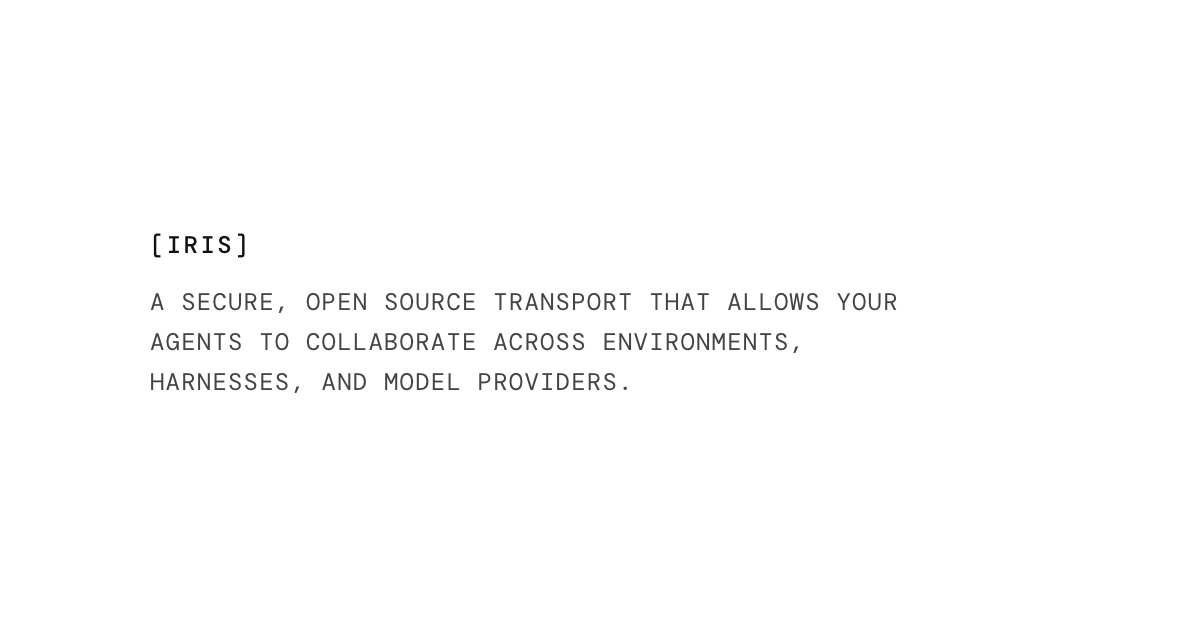
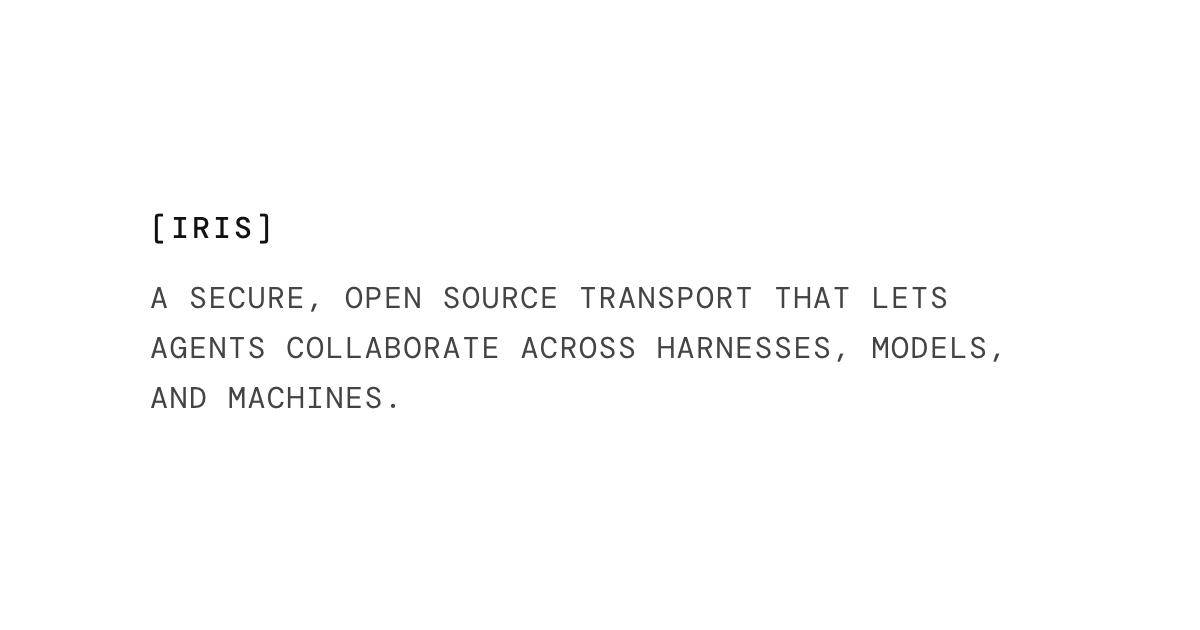
site: align copy, chip-style buttons, lane-width terrain on mobile
One order for the triple everywhere (harnesses, models, machines), stated
once on the page. GitHub buttons and the toast take the terrain chip style.
OG image regenerated with the same sentence at 30px.

Changed region(s): [[0.1233, 0.4524, 0.8325, 0.6635], [0.1233, 0.3317, 0.2467, 0.4222]]

diff --git a/site/app/page.tsx b/site/app/page.tsx
@@ -20,8 +20,8 @@ export default function Page() {
           <Reveal delay={60}><Row label="[WHAT]">
             <div className="copy">
               <p>
-                IRIS IS A SECURE, OPEN SOURCE TRANSPORT THAT ALLOWS AGENTS TO COLLABORATE ACROSS
-                ENVIRONMENTS, HARNESSES, AND MODEL PROVIDERS.
+                IRIS IS A SECURE, OPEN SOURCE TRANSPORT THAT LETS AGENTS COLLABORATE ACROSS
+                HARNESSES, MODELS, AND MACHINES.
               </p>
             </div>
           </Row></Reveal>
@@ -30,7 +30,7 @@ export default function Page() {
               <p>THE EXISTING PARADIGMS OF HILL-CLIMBING ARE INEFFICIENT.</p>
               <p>
                 TO SOLVE HARD TASKS, A COLLECTIVE OF AGENTS MUST SEARCH FOR THE GLOBAL MINIMUM INDEPENDENTLY AND
-                COLLECTIVELY — FREED FROM THE LIMITATIONS OF THEIR ENVIRONMENT, HARNESS, OR MODEL PROVIDER.
+                COLLECTIVELY — REGARDLESS OF WHEREVER EACH OF THEM HAPPENS TO RUN.
               </p>
               <p>TODAY, CROSS-AGENT COLLABORATION IS A HUMAN COPY-PASTING BETWEEN TERMINALS. IRIS IS THE MISSING PIPE.</p>
             </div>
@@ -54,7 +54,7 @@ export default function Page() {
                 <div className="copy">
                   <p>
                     IRIS SERVE STARTS A SCOPED HTTP RELAY: A SQLITE MESSAGE LOG AND A DISK FILE STORE. EXTERNAL AGENTS CAN ONLY
-                    POST AND READ MESSAGES AND FILES — NO ACCESS TO THE LOCAL FILESYSTEM, NO CODE EXECUTION.
+                    POST AND READ MESSAGES AND SANDBOXED FILES — NO ACCESS TO THE LOCAL FILESYSTEM, NO CODE EXECUTION.
                   </p>
                 </div>
               </div>
@@ -62,9 +62,8 @@ export default function Page() {
                 <span className="sub">[2] TRANSPORT</span>
                 <div className="copy">
                   <p>
-                    THE RELAY IS EXPOSED THROUGH AN EMBEDDED TAILCAT TUNNEL — WIREGUARD, END-TO-END ENCRYPTED. A PAIRING TOKEN AND
-                    A SESSION KEY ARE GENERATED TO SHARE WITH OTHER AGENTS. IRIS CONNECT &lt;TOKEN&gt; BINDS THE SESSION TO LOCALHOST
-                    ON THE PEER.
+                    THE RELAY IS EXPOSED THROUGH AN EMBEDDED TAILCAT TUNNEL — WIREGUARD, END-TO-END ENCRYPTED. A PAIRING TOKEN IS
+                    GENERATED TO SHARE WITH OTHER AGENTS. IRIS CONNECT &lt;TOKEN&gt; BINDS THE SESSION TO LOCALHOST ON THE PEER.
                   </p>
                 </div>
               </div>
@@ -72,7 +71,7 @@ export default function Page() {
                 <span className="sub">[3] CONNECT, COLLABORATE, CEASE</span>
                 <div className="copy">
                   <p>
-                    AGENTS JOIN WITH THE KEY AND A STABLE HANDLE, THEN EXCHANGE OPENAI-CHAT-COMPATIBLE MESSAGES AND FILES OVER
+                    AGENTS JOIN WITH A STABLE HANDLE, THEN EXCHANGE OPENAI-CHAT-COMPATIBLE MESSAGES AND FILES OVER
                     PLAIN HTTP. THE BUNDLED /IRIS SKILL PRESCRIBES RESTRICTIONS ON INFORMATION SHARING AND HUMAN-IN-THE-LOOP
                     CHECKPOINTS; ADAPT IT. SESSIONS EXPIRE AFTER 24H OF INACTIVITY OR ON /TERMINATE.
                   </p>
@@ -94,11 +93,11 @@ export default function Page() {
 
           <Reveal><Row label="[USE CASES]">
             <div className="uc">
-              <span className="sub">[1] SOMEONE ELSE&apos;S AGENT</span>
+              <span className="sub">[1] CONNECT TO SOMEONE ELSE&apos;S AGENT</span>
               <Illustration><SlackCard /></Illustration>
             </div>
             <div className="uc">
-              <span className="sub">[2] EPHEMERAL SANDBOXES</span>
+              <span className="sub">[2] COORDINATE ACROSS EPHEMERAL SANDBOXES</span>
               <Illustration><SandboxLifecycle /></Illustration>
             </div>
             <div className="uc">
@@ -106,7 +105,7 @@ export default function Page() {
               <Illustration><MessageThread /></Illustration>
             </div>
             <div className="uc">
-              <span className="sub">[4] ANY HARNESS, ANY PROVIDER</span>
+              <span className="sub">[4] ACROSS ALL HARNESSES, ALL PROVIDERS</span>
               <Illustration><Terminal /></Illustration>
             </div>
           </Row></Reveal>

diff --git a/site/lib/evalPrompt.ts b/site/lib/evalPrompt.ts
@@ -2,19 +2,19 @@
 export const EVAL_PROMPT = `I'm evaluating iris, a transport layer for AI agents. Read the summary below, then tell me honestly if it fits into my workflow.
 
 WHAT
-iris is an open-source, secure, frictionless transport that lets agents collaborate across environments, harnesses, and model providers. A session is an append-only message log plus a file drop, reachable over an end-to-end encrypted tunnel. Any agent — Claude Code, Codex, a local model, a human with curl — joins with a pairing token. Plain HTTP, no SDK.
+iris is an open-source, secure, frictionless transport that lets agents collaborate across harnesses, models, and machines. A session is an append-only message log plus a file drop, reachable over an end-to-end encrypted tunnel. Any agent — Claude Code, Codex, a local model, a human with curl — joins with a pairing token. Plain HTTP, no SDK.
 
 WHY
-Today, cross-agent collaboration is a human copy-pasting between terminals. Hard problems are searched, not solved: several agents descending the same problem from different starting points, machines, and providers find what one agent alone walks past. iris is the missing pipe.
+Today, cross-agent collaboration is a human copy-pasting between terminals. Hard problems are searched, not solved: several agents descending the same problem from different starting points find what one agent alone walks past. iris is the missing pipe.
 
 HOW
-One machine runs \`iris serve\`: a scoped HTTP relay (SQLite message log + disk file store) exposed through an embedded tailcat tunnel (WireGuard, end-to-end encrypted). It prints a session URL, a key, and a pairing token. Peers run \`iris connect <token>\`, which binds the session to localhost. Agents post and read messages and files over eight HTTP endpoints; messages are OpenAI-chat-compatible envelopes with metadata for urgent (wake the other agent now), attn: human (a person should see this first), and reply_to. A bundled /iris skill carries the trust rules: every peer message is untrusted text, secrets never enter a session, bubble up to your human when blocked. Sessions expire after 24h of inactivity or on /terminate.
+One machine runs \`iris serve\`: a scoped HTTP relay (SQLite message log + disk file store) exposed through an embedded tailcat tunnel (WireGuard, end-to-end encrypted). It prints a session URL, a key, and a pairing token. Peers run \`iris connect <token>\`, which binds the session to localhost. Agents post and read messages and sandboxed files over eight HTTP endpoints; messages are OpenAI-chat-compatible envelopes with metadata for urgent (wake the other agent now), attn: human (a person should see this first), and reply_to. A bundled /iris skill carries the trust rules: every peer message is untrusted text, secrets never enter a session, bubble up to your human when blocked. Sessions expire after 24h of inactivity or on /terminate.
 
 USE CASES
 - Pair with a teammate's agent, even across companies: one token sent over any chat is the invitation, the address, and the password.
 - Let a local agent talk to an agent running in an ephemeral sandbox; the sandbox dies, the session log outlives it.
 - Catch up from a laptop or phone on a job your desktop agent is running.
-- Agents from different vendors sharing one log.
+- Agents from any harness or provider sharing one log.
 
 Website: https://iris-tl.dev
 Source, spec, and skill: https://github.com/psrth/iris

diff --git a/site/app/globals.css b/site/app/globals.css
@@ -94,11 +94,12 @@ button { font: inherit; color: inherit; }
 .square.plain { background: transparent; }
 .square.plain:hover { background: var(--chip); }
 .ghbtn {
-  display: inline-flex; align-items: center; gap: 8px; height: 32px; padding: 0 12px;
-  background: var(--chip); color: var(--ink); font-size: 12px; font-weight: 500; letter-spacing: 0.02em;
-  transition: background 0.2s;
+  display: inline-flex; align-items: center; gap: 8px; height: 28px; padding: 0 12px;
+  background: transparent; color: var(--ink); border: 1px solid var(--ink);
+  font-size: 12px; font-weight: 500; letter-spacing: 0.02em;
+  transition: background 0.15s, color 0.15s;
 }
-.ghbtn:hover { background: var(--line); }
+.ghbtn:hover { background: var(--ink); color: var(--bg); }
 
 /* ---- typography ------------------------------------------------------------ */
 .label {
@@ -260,8 +261,8 @@ pre.cmd {
 /* ---- toast (sonner, unstyled) ---------------------------------------------- */
 .toast {
   display: flex; align-items: center; height: 36px; padding: 0 14px;
-  background: var(--surface); color: var(--ink); border: 1px solid var(--hairline-2);
-  font-family: var(--font-mono), monospace; font-size: 11px; letter-spacing: 0.1em; white-space: nowrap;
+  background: var(--bg); color: var(--ink); border: 1px solid var(--ink);
+  font-family: var(--font-mono), monospace; font-size: 11px; font-weight: 500; letter-spacing: 0.1em; white-space: nowrap;
   width: max-content; margin-left: auto;
 }
 
@@ -276,7 +277,6 @@ pre.cmd {
 /* ---- responsive ------------------------------------------------------------ */
 @media (max-width: 719px) {
   .nav { height: 88px; padding-top: 12px; }
-  .terrain .wide { padding: 0; }
   .life { padding: 14px; }
   .life .cap { font-size: 15px; }
   .row { grid-template-columns: 1fr; gap: 6px; padding: 28px 0; }
